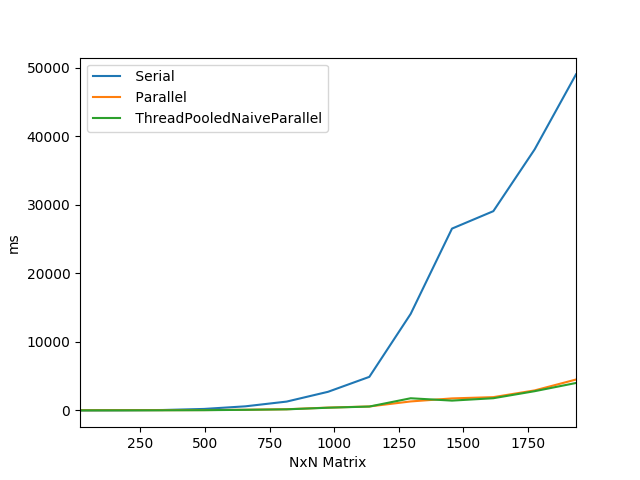
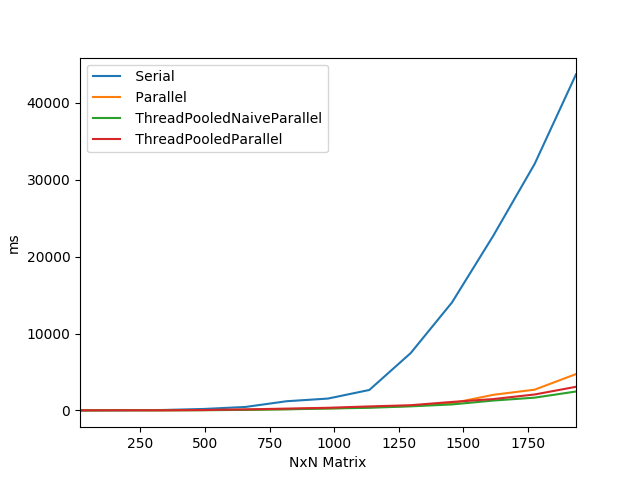
fix threadpool deadlock with newWorkStealingPool

diff --git a/single-node-threaded/src/main/java/edu/cooper/ece465/threadpool/ThreadPooledParallelMultiplication.java b/single-node-threaded/src/main/java/edu/cooper/ece465/threadpool/ThreadPooledParallelMultiplication.java
@@ -10,13 +10,14 @@ import lombok.AllArgsConstructor;
 
 public class ThreadPooledParallelMultiplication extends MatrixMultiplication {
   private ExecutorService exec;
-  
+
   public ThreadPooledParallelMultiplication() {
     super(ThreadPooledParallelMultiplication.class.toString());
   }
-  
+
   public void multiply(Matrix A, Matrix B, Matrix C) {
-    exec = Executors.newFixedThreadPool(Runtime.getRuntime().availableProcessors());
+    // exec = Executors.newFixedThreadPool(Runtime.getRuntime().availableProcessors());
+    exec = Executors.newWorkStealingPool();
     Future<?> f =
         exec.submit(new ThreadPooledParallelMultiply(A, B, C, 0, 0, 0, 0, 0, 0, C.getRow()));
     try {
@@ -35,7 +36,7 @@ public class ThreadPooledParallelMultiplication extends MatrixMultiplication {
     private int A_i, A_j, B_i, B_j, C_i, C_j, size;
 
     public void run() {
-      if (size <= A.getRow() / 2) {
+      if (size <= A.getRow() / 8) {
         SerialMatrixMultiplication.multiplyWithIndex(
             A, B, C, A_i, A_j, B_i, B_j, C_i, C_j, size, size, size);
       } else {
@@ -108,9 +109,6 @@ public class ThreadPooledParallelMultiplication extends MatrixMultiplication {
           LOG.error(e);
         }
         C.incrementFromMatrices(C1, C2);
-        // LOG.debug(C1.toString());
-        // LOG.debug(C2.toString());
-        // LOG.debug(C.toString());
       }
     }
   }

diff --git a/single-node-threaded/src/main/java/edu/cooper/ece465/App.java b/single-node-threaded/src/main/java/edu/cooper/ece465/App.java
@@ -6,7 +6,6 @@ import edu.cooper.ece465.threadpool.ThreadPooledNaiveParallelMultiplication;
 import edu.cooper.ece465.threadpool.ThreadPooledParallelMultiplication;
 import edu.cooper.ece465.threads.ParallelMultiplication;
 import java.io.BufferedWriter;
-import java.io.FileWriter;
 import java.io.IOException;
 import org.apache.log4j.Logger;
 
@@ -16,7 +15,7 @@ public class App {
 
   public static void main(String[] args) throws InterruptedException, IOException {
     // writer = new BufferedWriter(new FileWriter("output.csv"));
-    // writer.write("N, Serial, Parallel, ThreadPooledNaiveParallel\n");
+    // writer.write("N, Serial, Parallel, ThreadPooledNaiveParallel, ThreadPooledParallel\n");
     // for (int i = 1; i < 130; i += 10) {
     //   LOG.info("N = " + 16 * i);
     //   test(16 * i);
@@ -41,7 +40,9 @@ public class App {
     C.clear();
     long t4 = new ThreadPooledParallelMultiplication().multiplyWithTimeMeasure(A, B, C);
 
-    // writer.write(N + ", " + t1 + ", " + t2 + ", " + t3 + ", " + t4 + "\n");
+    if (writer != null) {
+      writer.write(N + ", " + t1 + ", " + t2 + ", " + t3 + ", " + t4 + "\n");
+    }
     return new long[] {t1, t2, t3, t4};
   }
 }

diff --git a/single-node-threaded/src/main/java/edu/cooper/ece465/threadpool/ThreadPooledNaiveParallelMultiplication.java b/single-node-threaded/src/main/java/edu/cooper/ece465/threadpool/ThreadPooledNaiveParallelMultiplication.java
@@ -11,13 +11,14 @@ import lombok.AllArgsConstructor;
 
 public class ThreadPooledNaiveParallelMultiplication extends MatrixMultiplication {
   private ExecutorService exec;
-  
+
   public ThreadPooledNaiveParallelMultiplication() {
     super(ThreadPooledNaiveParallelMultiplication.class.toString());
   }
-  
+
   public void multiply(Matrix A, Matrix B, Matrix C) {
-    exec = Executors.newFixedThreadPool(Runtime.getRuntime().availableProcessors());
+    // exec = Executors.newFixedThreadPool(Runtime.getRuntime().availableProcessors());
+    exec = Executors.newWorkStealingPool();
     Future<?> f =
         exec.submit(new ThreadPooledNaiveParallelMultiply(A, B, C, 0, 0, 0, 0, 0, 0, C.getRow()));
     try {
@@ -36,7 +37,7 @@ public class ThreadPooledNaiveParallelMultiplication extends MatrixMultiplicatio
     private int A_i, A_j, B_i, B_j, C_i, C_j, size;
 
     public void run() {
-      if (size <= A.getRow() / 4) {
+      if (size <= A.getRow() / 8) {
         SerialMatrixMultiplication.multiplyWithIndex(
             A, B, C, A_i, A_j, B_i, B_j, C_i, C_j, size, size, size);
       } else {

diff --git a/README.md b/README.md
@@ -7,7 +7,7 @@ This project is splitted up into three different parts. The first single-node-th
 ## Algorithm Description
 Naive matrix multiplication involves iterating over all of the elements of matrix A and matrix B row by row to calulate specific elements in the resultant matrix C in a certain order. Each element is calculated using the following formula:
 
-<img src="https://latex.codecogs.com/svg.latex?\Large&space;c_{i,%20j}=\sum_{k=1}^{m}a_{i,k}b_{k,j}" />
+<img src="https://latex.codecogs.com/svg.latex?;c_{i,%20j}=\sum_{k=1}^{m}a_{i,k}b_{k,j}" title="eqn"/>
 
 Given matrix A with [n x m] dimensions nad matrix B with [m x p]  dimensions, the naive algorithm will take Θ(n*m*p) time. For simpler cases with square matrices, the algorithm will take Θ(n^3) time. 
 
